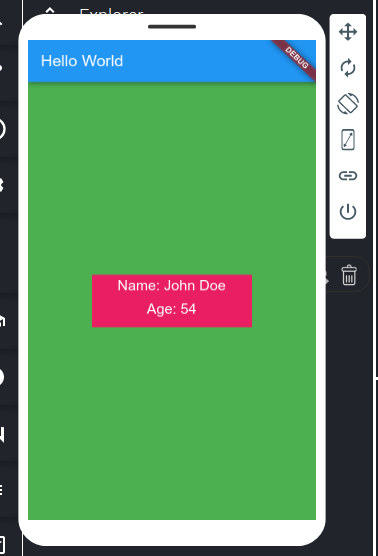
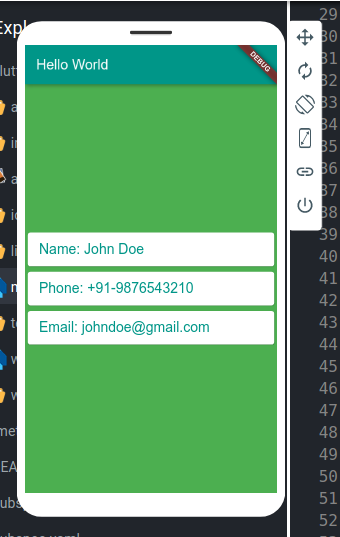
ui demo, state demo, routing demo

diff --git a/lib/steps/angelayu.dart b/lib/steps/angelayu.dart
@@ -1,0 +1,83 @@
+import 'package:flutter/material.dart';
+
+void main() {
+  runApp(MyApp());
+}
+
+class MyApp extends StatelessWidget {
+  @override
+  Widget build(BuildContext context) {
+    return MaterialApp(
+      home: Scaffold(
+        backgroundColor: Colors.teal,
+        body: SafeArea(
+            child: Column(
+          mainAxisAlignment: MainAxisAlignment.center,
+          children: <Widget>[
+            CircleAvatar(
+              radius: 50.0,
+              backgroundImage: AssetImage('images/angela.jpg'),
+            ),
+            Text(
+              'Angela Yu',
+              style: TextStyle(
+                fontFamily: 'Pacifico',
+                fontSize: 40.0,
+                color: Colors.white,
+                fontWeight: FontWeight.bold,
+              ),
+            ),
+            Text(
+              'FLUTTER DEVELOPER',
+              style: TextStyle(
+                fontFamily: 'Source Sans Pro',
+                color: Colors.teal.shade100,
+                fontSize: 20.0,
+                letterSpacing: 2.5,
+                fontWeight: FontWeight.bold,
+              ),
+            ),
+            SizedBox(
+              height: 20.0,
+              width: 150.0,
+              child: Divider(
+                color: Colors.teal.shade100,
+              ),
+            ),
+            Card(
+                margin: EdgeInsets.symmetric(vertical: 10.0, horizontal: 25.0),
+                child: ListTile(
+                  leading: Icon(
+                    Icons.phone,
+                    color: Colors.teal,
+                  ),
+                  title: Text(
+                    '+44 123 456 789',
+                    style: TextStyle(
+                      color: Colors.teal.shade900,
+                      fontFamily: 'Source Sans Pro',
+                      fontSize: 20.0,
+                    ),
+                  ),
+                )),
+            Card(
+                margin: EdgeInsets.symmetric(vertical: 10.0, horizontal: 25.0),
+                child: ListTile(
+                  leading: Icon(
+                    Icons.email,
+                    color: Colors.teal,
+                  ),
+                  title: Text(
+                    'angela@email.com',
+                    style: TextStyle(
+                        fontSize: 20.0,
+                        color: Colors.teal.shade900,
+                        fontFamily: 'Source Sans Pro'),
+                  ),
+                ))
+          ],
+        )),
+      ),
+    );
+  }
+}

diff --git a/lib/steps/step9_1.dart b/lib/steps/step9_1.dart
@@ -1,4 +1,5 @@
 import 'package:flutter/material.dart';
+import 'package:profile/hello.dart';
 
 void main() {
   runApp(MyApp());
@@ -19,8 +20,15 @@ class HomePage extends StatelessWidget {
     return Scaffold(
       appBar: AppBar(
         title: Text('Hello World'),
+        backgroundColor: Colors.teal,
       ),
       backgroundColor: Colors.green,
+      floatingActionButton: FloatingActionButton(
+        child: Icon(Icons.navigation),
+        onPressed: () => Navigator.of(context)
+            .push(MaterialPageRoute(builder: (context) => Hello())),
+        backgroundColor: Colors.teal,
+      ),
       body: Center(
         child: Column(
           mainAxisAlignment: MainAxisAlignment.center,
@@ -32,7 +40,12 @@ class HomePage extends StatelessWidget {
             ),
             Card(
               color: Colors.white,
+              margin: const EdgeInsets.symmetric(
+                vertical: 5,
+                horizontal: 15,
+              ),
               child: ListTile(
+                leading: Icon(Icons.account_circle),
                 title: Text(
                   'Name: John Doe',
                   style: TextStyle(fontSize: 20, color: Colors.teal),
@@ -41,7 +54,12 @@ class HomePage extends StatelessWidget {
             ),
             Card(
               color: Colors.white,
+              margin: const EdgeInsets.symmetric(
+                vertical: 5,
+                horizontal: 15,
+              ),
               child: ListTile(
+                leading: Icon(Icons.phone),
                 title: Text(
                   'Phone: +91-9876543210',
                   style: TextStyle(fontSize: 20, color: Colors.teal),
@@ -50,7 +68,12 @@ class HomePage extends StatelessWidget {
             ),
             Card(
               color: Colors.white,
+              margin: const EdgeInsets.symmetric(
+                vertical: 5,
+                horizontal: 15,
+              ),
               child: ListTile(
+                leading: Icon(Icons.email),
                 title: Text(
                   'Email: johndoe@gmail.com',
                   style: TextStyle(fontSize: 20, color: Colors.teal),

diff --git a/lib/steps/step5.dart b/lib/steps/step5.dart
@@ -19,31 +19,41 @@ class HomePage extends StatelessWidget {
     return Scaffold(
       appBar: AppBar(
         title: Text('Hello World'),
+        backgroundColor: Colors.teal,
       ),
       backgroundColor: Colors.green,
       body: Center(
-        child: Container(
-          color: Colors.pink,
-          height: 70,
-          width: 200,
-          child: Column(
-            children: [
-              Padding(
-                padding: const EdgeInsets.all(5.0),
-                child: Text(
+        child: Column(
+          mainAxisAlignment: MainAxisAlignment.center,
+          children: [
+            Card(
+              color: Colors.white,
+              child: ListTile(
+                title: Text(
                   'Name: John Doe',
-                  style: TextStyle(fontSize: 18, color: Colors.white),
+                  style: TextStyle(fontSize: 20, color: Colors.teal),
                 ),
               ),
-              Padding(
-                padding: const EdgeInsets.all(5.0),
-                child: Text(
-                  'Age: 54',
-                  style: TextStyle(fontSize: 18, color: Colors.white),
+            ),
+            Card(
+              color: Colors.white,
+              child: ListTile(
+                title: Text(
+                  'Phone: +91-9876543210',
+                  style: TextStyle(fontSize: 20, color: Colors.teal),
                 ),
               ),
-            ],
-          ),
+            ),
+            Card(
+              color: Colors.white,
+              child: ListTile(
+                title: Text(
+                  'Email: johndoe@gmail.com',
+                  style: TextStyle(fontSize: 20, color: Colors.teal),
+                ),
+              ),
+            ),
+          ],
         ),
       ),
     );

diff --git a/lib/steps/step8.dart b/lib/steps/step8.dart
@@ -19,6 +19,7 @@ class HomePage extends StatelessWidget {
     return Scaffold(
       appBar: AppBar(
         title: Text('Hello World'),
+        backgroundColor: Colors.teal,
       ),
       backgroundColor: Colors.green,
       body: Center(
@@ -32,7 +33,12 @@ class HomePage extends StatelessWidget {
             ),
             Card(
               color: Colors.white,
+              margin: const EdgeInsets.symmetric(
+                vertical: 5,
+                horizontal: 15,
+              ),
               child: ListTile(
+                leading: Icon(Icons.account_circle),
                 title: Text(
                   'Name: John Doe',
                   style: TextStyle(fontSize: 20, color: Colors.teal),
@@ -41,7 +47,12 @@ class HomePage extends StatelessWidget {
             ),
             Card(
               color: Colors.white,
+              margin: const EdgeInsets.symmetric(
+                vertical: 5,
+                horizontal: 15,
+              ),
               child: ListTile(
+                leading: Icon(Icons.phone),
                 title: Text(
                   'Phone: +91-9876543210',
                   style: TextStyle(fontSize: 20, color: Colors.teal),
@@ -50,7 +61,12 @@ class HomePage extends StatelessWidget {
             ),
             Card(
               color: Colors.white,
+              margin: const EdgeInsets.symmetric(
+                vertical: 5,
+                horizontal: 15,
+              ),
               child: ListTile(
+                leading: Icon(Icons.email),
                 title: Text(
                   'Email: johndoe@gmail.com',
                   style: TextStyle(fontSize: 20, color: Colors.teal),

diff --git a/lib/steps/stateDemo.dart b/lib/steps/stateDemo.dart
@@ -1,0 +1,50 @@
+import 'package:flutter/material.dart';
+
+void main() {
+  runApp(MyApp());
+}
+
+class MyApp extends StatelessWidget {
+  @override
+  Widget build(BuildContext context) {
+    return MaterialApp(
+      home: HomePage(),
+    );
+  }
+}
+
+class HomePage extends StatefulWidget {
+  @override
+  _HomePageState createState() => _HomePageState();
+}
+
+class _HomePageState extends State<HomePage> {
+  var color = [Colors.green, Colors.red, Colors.blue, Colors.pink];
+  var index = 0;
+
+  @override
+  Widget build(BuildContext context) {
+    return Scaffold(
+      backgroundColor: color[index],
+      body: Row(
+        children: [
+          Text('HELLO WORLD'),
+          FlatButton(
+              color: Colors.grey,
+              onPressed: () {
+                if (index == 3) {
+                  setState(() {
+                    index = 0;
+                  });
+                } else {
+                  setState(() {
+                    index++;
+                  });
+                }
+              },
+              child: Text("ChangeColor"))
+        ],
+      ),
+    );
+  }
+}

diff --git a/lib/steps/routingDemo.dart b/lib/steps/routingDemo.dart
@@ -1,4 +1,5 @@
 import 'package:flutter/material.dart';
+import 'package:profile/hello.dart';
 
 void main() {
   runApp(MyApp());
@@ -22,13 +23,13 @@ class HomePage extends StatelessWidget {
         backgroundColor: Colors.teal,
       ),
       backgroundColor: Colors.green,
-      body: Center(
-        child: Container(
-          color: Colors.pink,
-          height: 70,
-          width: 200,
-        ),
+      floatingActionButton: FloatingActionButton(
+        child: Icon(Icons.navigation),
+        onPressed: () => Navigator.of(context)
+            .push(MaterialPageRoute(builder: (context) => Hello())),
+        backgroundColor: Colors.teal,
       ),
+      body: Text('First screen'),
     );
   }
 }

diff --git a/lib/hello.dart b/lib/hello.dart
@@ -1,0 +1,15 @@
+import 'package:flutter/material.dart';
+
+class Hello extends StatelessWidget {
+  @override
+  Widget build(BuildContext context) {
+    return Scaffold(
+      appBar: AppBar(
+        title: Text('Hello World'),
+        backgroundColor: Colors.teal,
+      ),
+      backgroundColor: Colors.green,
+      body: Text('HELLO WORLD'),
+    );
+  }
+}
